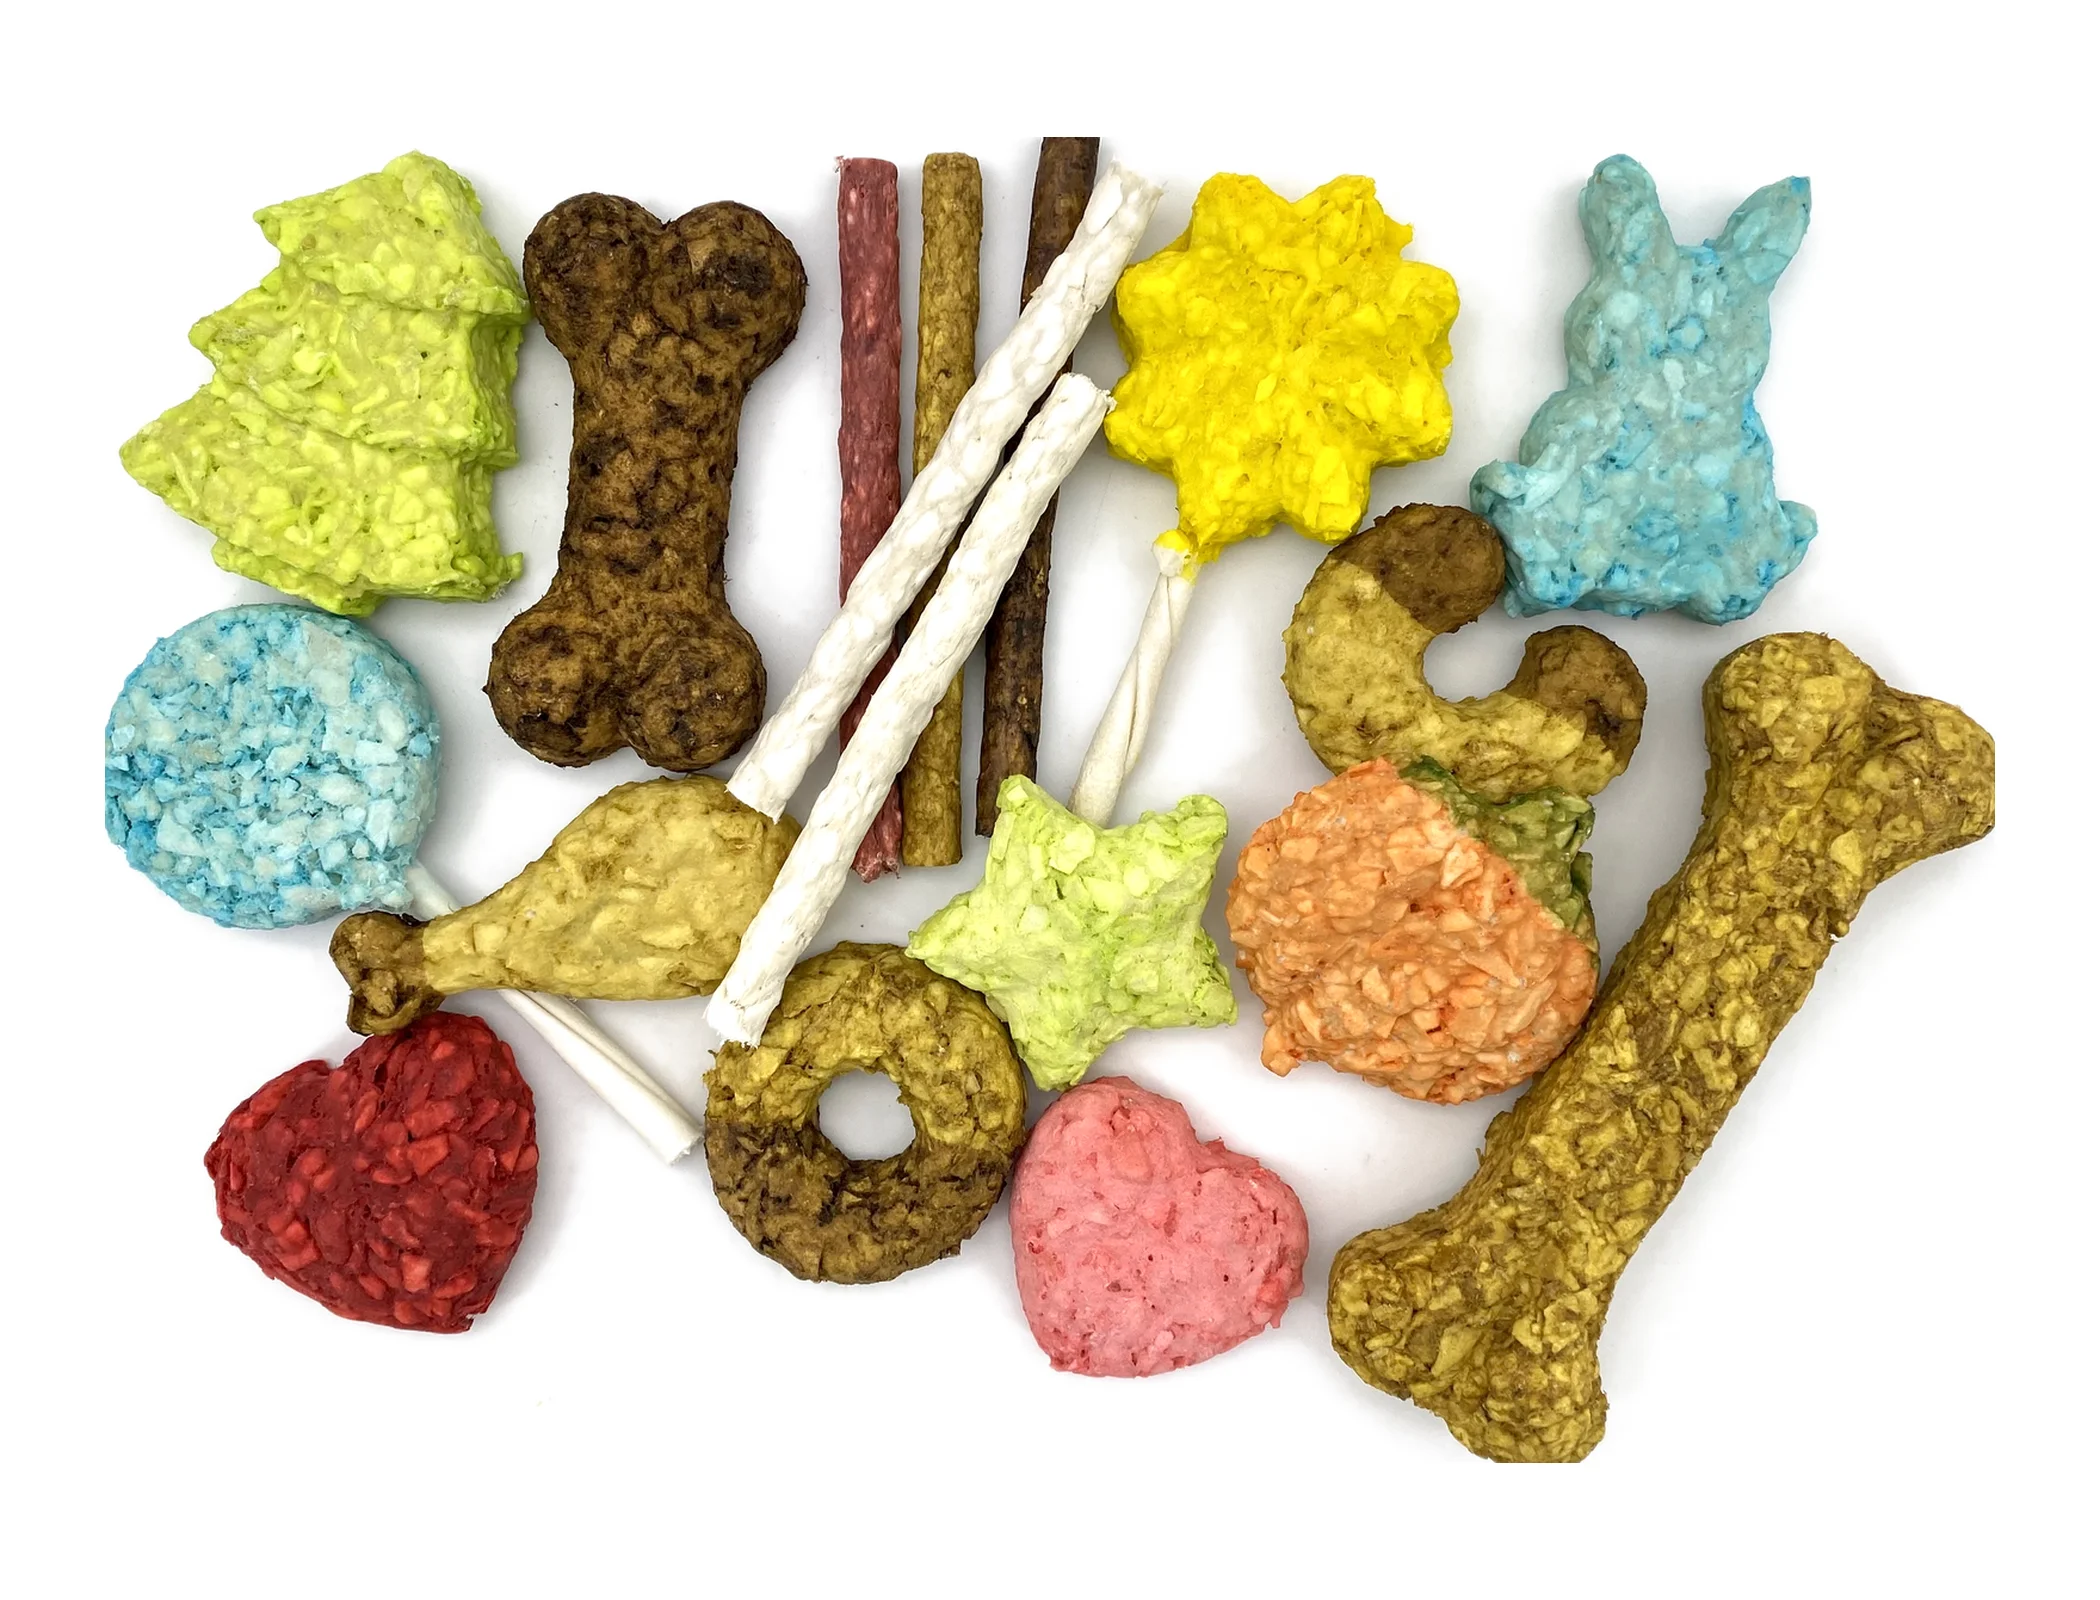
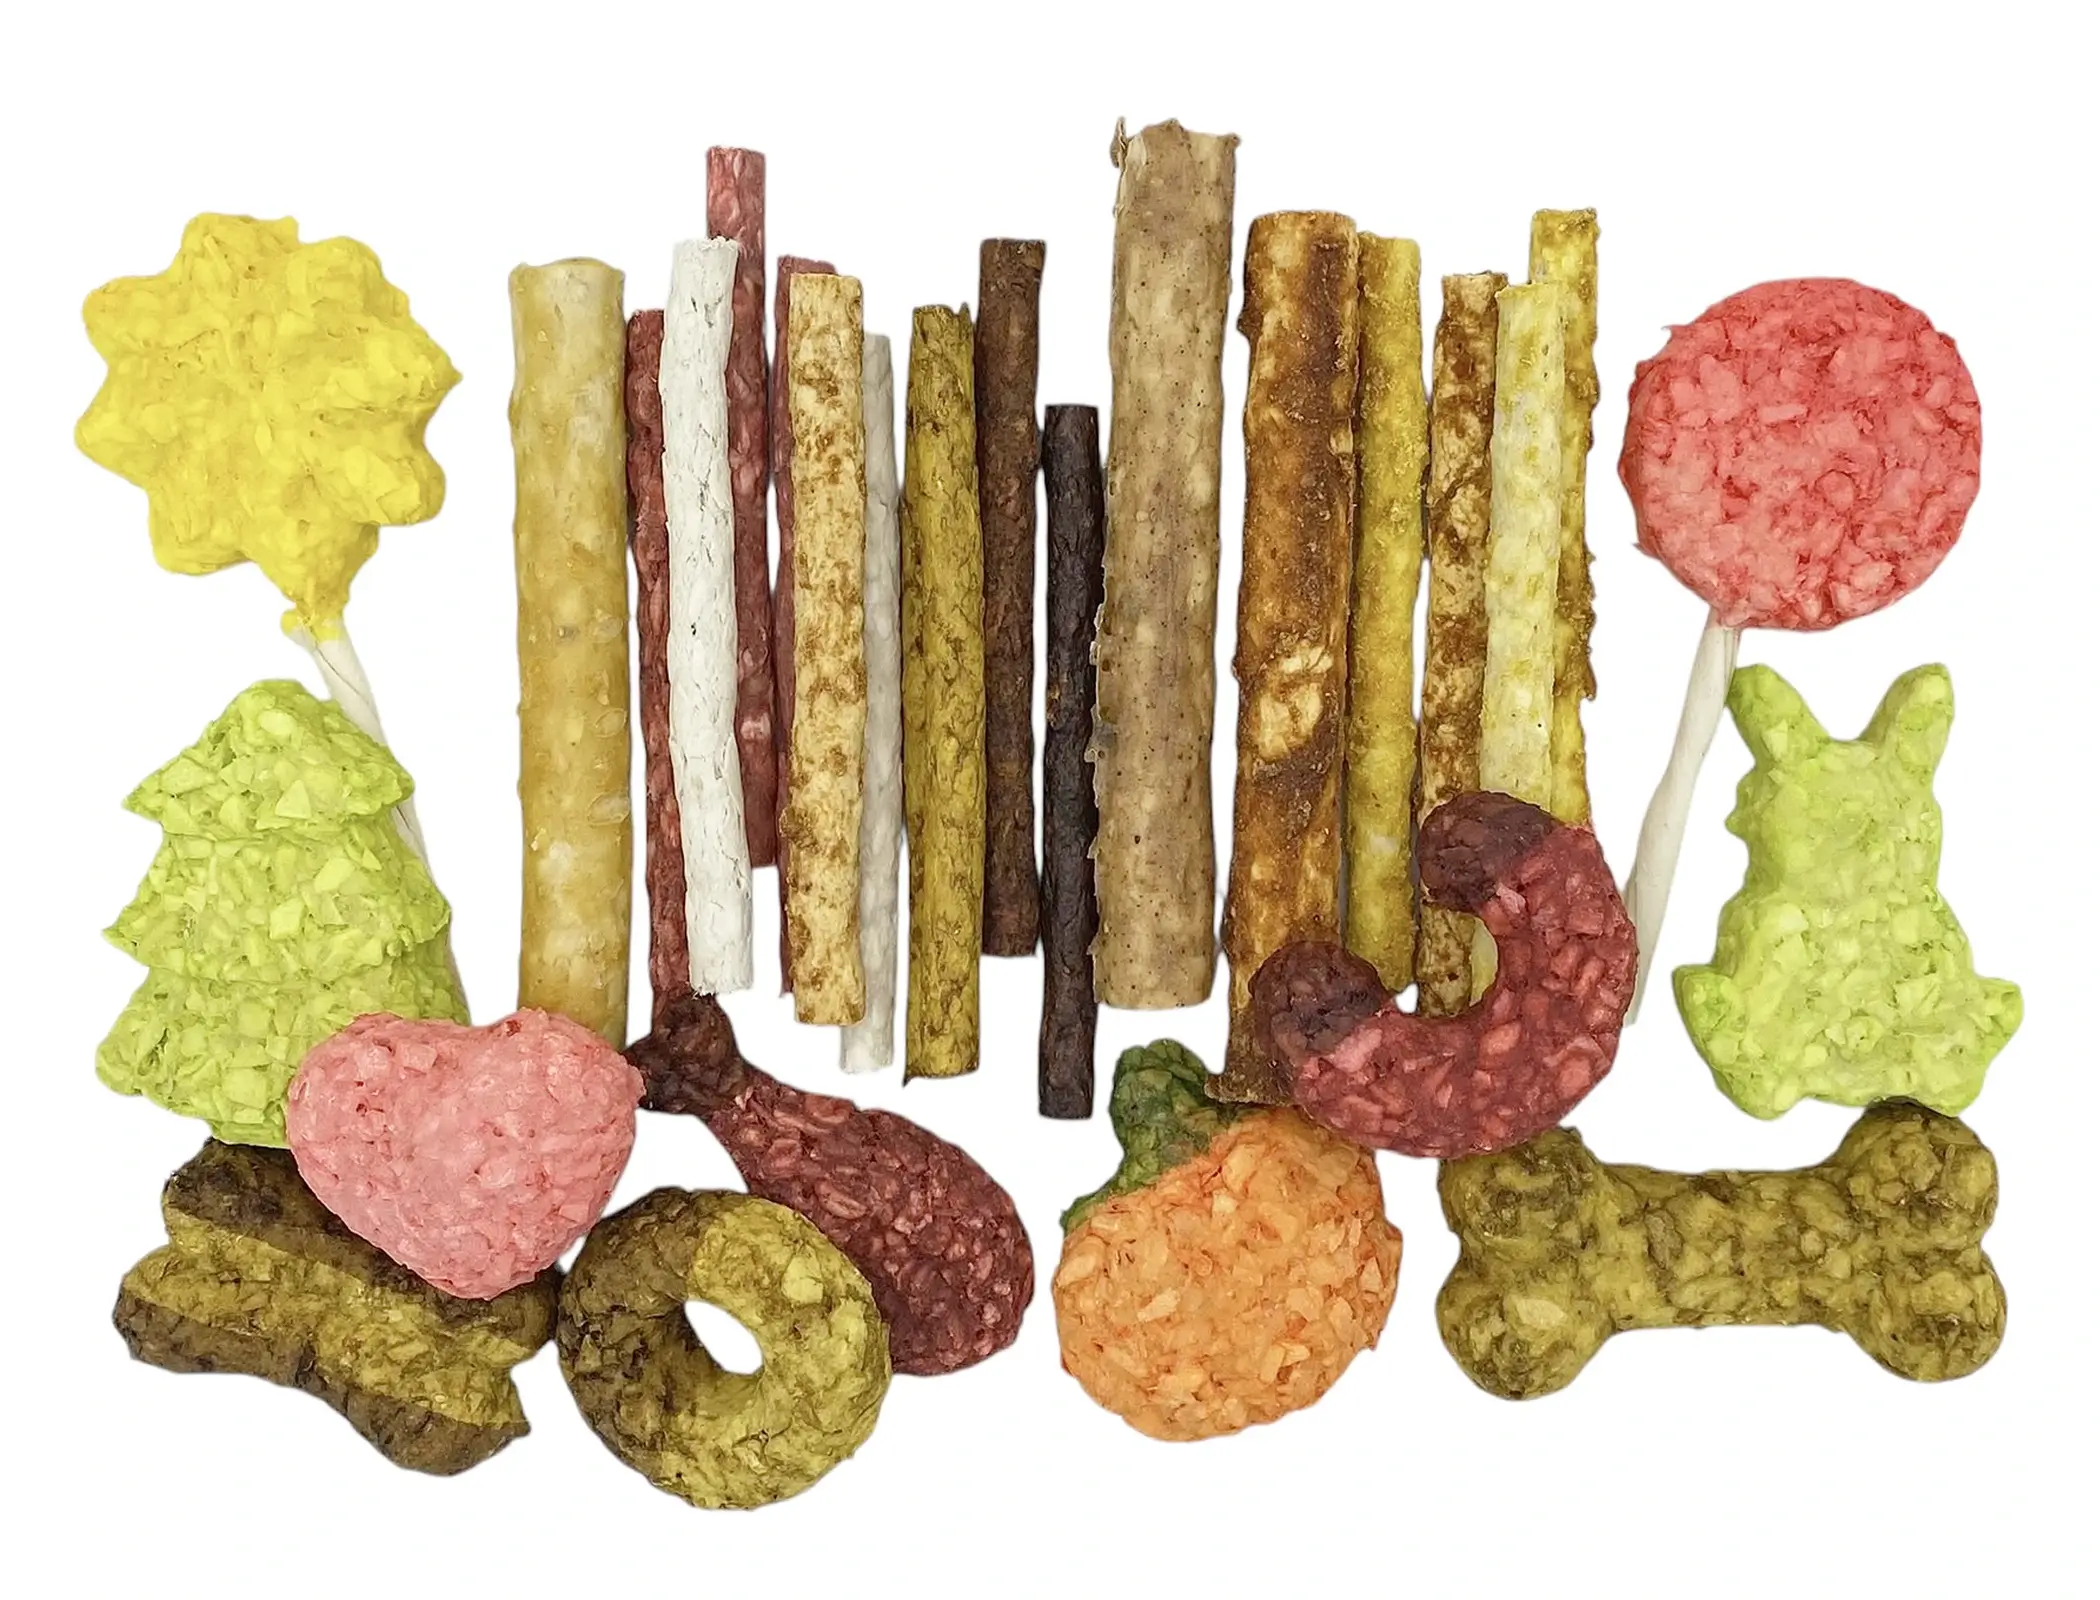
Actualización de catálogo y productos destacados

diff --git a/index.html b/index.html
@@ -7,7 +7,7 @@
     <title>Nivo Golden - Snacks Naturales para Mascotas</title>
     <!-- Etiquetas meta -->
     <meta name="description"
-        content="Snacks y premios naturales para perros. 100% natural con colágeno y proteína para la salud dental de tu mascota.">
+        content="Snacks y premios naturales para perros y gatos. 100% natural con colágeno y proteína para la salud dental de tu mascota.">
     <meta name="keywords" content="snacks naturales para perros, colágeno, carnaza, Nivo Golden">
     <meta property="og:title" content="Nivo Golden | Snacks naturales para perros">
     <meta property="og:description"
@@ -174,7 +174,7 @@
                         <p class="lead">Desde León, Guanajuato, creamos snacks naturales con amor para tu mascota.</p>
                         <p>En Nivo Golden creemos que nuestras mascotas merecen lo mejor. Por eso desarrollamos
                             productos 100% naturales, ricos en colágeno y proteína, que no solo son deliciosos sino que
-                            también contribuyen a la salud dental y bienestar general de los perros.</p>
+                            también contribuyen a la salud dental y bienestar general de perros y gatos.</p>
                         <!-- Valores de la empresa -->
                         <div class="valores mt-4">
                             <div class="valor-item d-flex align-items-center mb-3">
@@ -206,33 +206,33 @@
         <div class="container">
             <div class="text-center mb-5">
                 <h2 class="section-title">Productos Destacados</h2>
-                <p class="section-subtitle">Descubre nuestros snacks naturales para perros</p>
+                <p class="section-subtitle">Descubre nuestros snacks naturales para perros y gatos</p>
             </div>
             <div class="row">
                 <!-- Productos para Perros -->
-                <div class="col-12 mb-4">
+                <div class="col-lg-6 mb-4">
                     <div class="producto-categoria">
                         <div class="categoria-header">
                             <h3>Productos para Perros</h3>
                             <p>Snacks naturales que fortalecen y cuidan</p>
                         </div>
-                        <div class="productos-carousel productos-destacados">
-                            <div class="row justify-content-center">
-                                <div class="col-lg-3 col-md-4 col-6 mb-3">
+                        <div class="productos-carousel">
+                            <div class="row">
+                                <div class="col-md-4 mb-3">
                                     <div class="producto-card">
                                         <img src="img/img-productos-perro-1.webp" alt="Caja con 2kg de Palitos Surtido para perro - Nivo Golden" loading="lazy"
                                             class="img-fluid">
                                         <h5>Caja con 2kg de Palitos Surtido</h5>
                                     </div>
                                 </div>
-                                <div class="col-lg-3 col-md-4 col-6 mb-3">
+                                <div class="col-md-4 mb-3">
                                     <div class="producto-card">
-                                        <img src="img/img-productos-perro-5.webp" alt="Huesos de carnaza para perro - Nivo Golden" loading="lazy"
+                                        <img src="img/img-productos-perro-2.webp" alt="Mix Natural de Deshidratados para perro - Nivo Golden" loading="lazy"
                                             class="img-fluid">
-                                        <h5>Huesos de carnaza</h5>
+                                        <h5>Mix Natural de Deshidratados</h5>
                                     </div>
                                 </div>
-                                <div class="col-lg-3 col-md-4 col-6 mb-3">
+                                <div class="col-md-4 mb-3">
                                     <div class="producto-card">
                                         <img src="img/img-productos-perro-3.webp" alt="Pata de pollo deshidratada snack para perro - Nivo Golden" loading="lazy"
                                             class="img-fluid">
@@ -242,7 +242,37 @@
                             </div>
                         </div>
                         <div class="text-center mt-3">
-                            <a href="productos.html#perros" class="btn btn-outline-primary">Ver Catálogo Completo</a>
+                            <a href="productos.html#perros" class="btn btn-outline-primary">Ver Todos</a>
+                        </div>
+                    </div>
+                </div>
+                <!-- Productos para Gatos -->
+                <div class="col-lg-6 mb-4">
+                    <div class="producto-categoria">
+                        <div class="categoria-header">
+                            <h3>Productos para Gatos</h3>
+                            <p>Premios naturales que encantan</p>
+                        </div>
+                        <div class="productos-carousel">
+                            <div class="row justify-content-evenly">
+                                <div class="col-md-4 mb-3">
+                                    <div class="producto-card">
+                                        <img src="img/img-productos-gato-1.webp" alt="Charal deshidratado snack natural para gato - Nivo Golden" loading="lazy"
+                                            class="img-fluid">
+                                        <h5>Charal deshidratado</h5>
+                                    </div>
+                                </div>
+                                <div class="col-md-4 mb-3">
+                                    <div class="producto-card">
+                                        <img src="img/img-productos-gato-2.webp" alt="Premios de pescado para gato - Nivo Golden" loading="lazy"
+                                            class="img-fluid">
+                                        <h5>Premios de pescado</h5>
+                                    </div>
+                                </div>
+                            </div>
+                        </div>
+                        <div class="text-center mt-3">
+                            <a href="productos.html#gatos" class="btn btn-outline-primary">Ver Todos</a>
                         </div>
                     </div>
                 </div>

diff --git a/productos.html b/productos.html
@@ -6,7 +6,7 @@
     <meta name="viewport" content="width=device-width, initial-scale=1.0">
     <title>Productos - Nivo Golden | Snacks Naturales para Mascotas</title>
     <meta name="description"
-        content="Descubre nuestra línea completa de snacks naturales para perros. Colágeno, proteína y salud dental en cada premio.">
+        content="Descubre nuestra línea completa de snacks naturales para perros y gatos. Colágeno, proteína y salud dental en cada premio.">
 
     <!-- Favicon -->
     <link rel="icon" type="image/webp" href="img/img-logo-2.webp">
@@ -95,6 +95,11 @@
                                 <i class="fas fa-dog me-2"></i>Para Perros
                             </button>
                         </li>
+                        <li class="nav-item">
+                            <button class="nav-link" data-bs-toggle="pill" data-bs-target="#gatos">
+                                <i class="fas fa-cat me-2"></i>Para Gatos
+                            </button>
+                        </li>
                     </ul>
                 </div>
             </div>
@@ -113,7 +118,7 @@
                     </div>
 
                     <!-- Categorías-->
-                    <div class="row g-4 justify-content-center" id="categoryGridPerros">
+                    <div class="row g-4" id="categoryGridPerros">
 
                         <div class="col-lg-4 col-md-6">
                             <div class="category-card-custom" data-category="snacks premium">
@@ -127,6 +132,25 @@
                                         <li>Fuente alta de proteína</li>
                                         <li>100% naturales, sin conservadores ni colorantes.</li>
                                         <li>Brindan entretenimiento saludable y sabroso.</li>
+                                    </ul>
+                                    <span class="btn btn-primary">Ver Productos</span>
+                                </div>
+                            </div>
+                        </div>
+
+                        <div class="col-lg-4 col-md-6">
+                            <div class="category-card-custom" data-category="snacks gourmet">
+                                <img src="img/img-cat-sg.webp" alt="Categoría de Snacks Gourmet Deshidratados para Perros">
+                                <div class="category-card-custom-content">
+                                    <h4>Snacks Gourmet</h4>
+                                    <p class="category-description">
+                                        Selección de snacks naturales deshidratados ya sea de cerdo, conejo, pollo o
+                                        vegetales
+                                    </p>
+                                    <ul class="category-benefits-list">
+                                        <li>Fuente de proteína</li>
+                                        <li>100% naturales, sin conservadores ni colorantes.</li>
+                                        <li>Premio rico y saludable.</li>
                                     </ul>
                                     <span class="btn btn-primary">Ver Productos</span>
                                 </div>
@@ -193,6 +217,12 @@
                     </div>
 
                     <div class="row g-4" id="productosPerros" style="display: none;">
+                    </div>
+                </div>
+
+                <!-- PRODUCTOS PARA GATOS -->
+                <div class="tab-pane fade" id="gatos">
+                    <div class="row g-4" id="productosGatos">
                     </div>
                 </div>
             </div>

diff --git a/productos.js b/productos.js
@@ -2,12 +2,6 @@ document.addEventListener("DOMContentLoaded", () => {
   const SHEET_URL =
     "https://docs.google.com/spreadsheets/d/e/2PACX-1vRWldGqHxXEmTSphqY5YaOpsPA8uHbGB20lh-Gc7mlOWMNY7dZqMZUGY6upXBnbKzTHEOI9iQRblKHv/pub?output=csv"
 
-  // Categorías y productos del Sheets que no se muestran en el catálogo.
-  // Comparación sin mayúsculas ni espacios extra.
-  const CATEGORIAS_OCULTAS = ["gato", "snacks gourmet"]
-  const PRODUCTOS_OCULTOS = ["palitos saborizados"]
-  const normalizar = (texto) => (texto || "").trim().toLowerCase()
-
   // Contenedores de productos
   const productosPerrosContainer = document.getElementById("productosPerros")
   const productosGatosContainer = document.getElementById("productosGatos")
@@ -56,11 +50,7 @@ document.addEventListener("DOMContentLoaded", () => {
     header: true,
     complete: (results) => {
       try {
-        const data = results.data.filter((row) =>
-          row.name && row.image &&
-          !CATEGORIAS_OCULTAS.includes(normalizar(row.category)) &&
-          !PRODUCTOS_OCULTOS.includes(normalizar(row.name))
-        )
+        const data = results.data.filter((row) => row.name && row.image)
 
         if (!data || data.length === 0) {
           throw new Error("No se encontraron productos")
@@ -131,10 +121,12 @@ document.addEventListener("DOMContentLoaded", () => {
   function setupTabLogic() {
     // Lógica de hash #
     const hash = window.location.hash
-    const tabGatos = document.querySelector('button[data-bs-target="#gatos"]')
-    if (hash === '#gatos' && tabGatos) {
-      const tab = new window.bootstrap.Tab(tabGatos)
-      tab.show()
+    if (hash === '#gatos') {
+      const tabButton = document.querySelector('button[data-bs-target="#gatos"]')
+      if (tabButton) {
+        const tab = new window.bootstrap.Tab(tabButton)
+        tab.show()
+      }
     } else {
       // Si no es #gatos, es #perros o nada. Mostrar categorías de perros.
       showCategoriesView()

diff --git a/styles.css b/styles.css
@@ -264,18 +264,6 @@ h6 {
   margin-bottom: 0.5rem;
 }
 
-/* Productos destacados: imágenes cuadradas y uniformes */
-.productos-destacados .producto-card {
-  height: 100%;
-}
-
-.productos-destacados .producto-card img {
-  width: 100%;
-  aspect-ratio: 1 / 1;
-  object-fit: contain;
-  background: var(--white);
-}
-
 /* Certificaciones Section */
 .certificaciones-section {
   padding: 80px 0;
